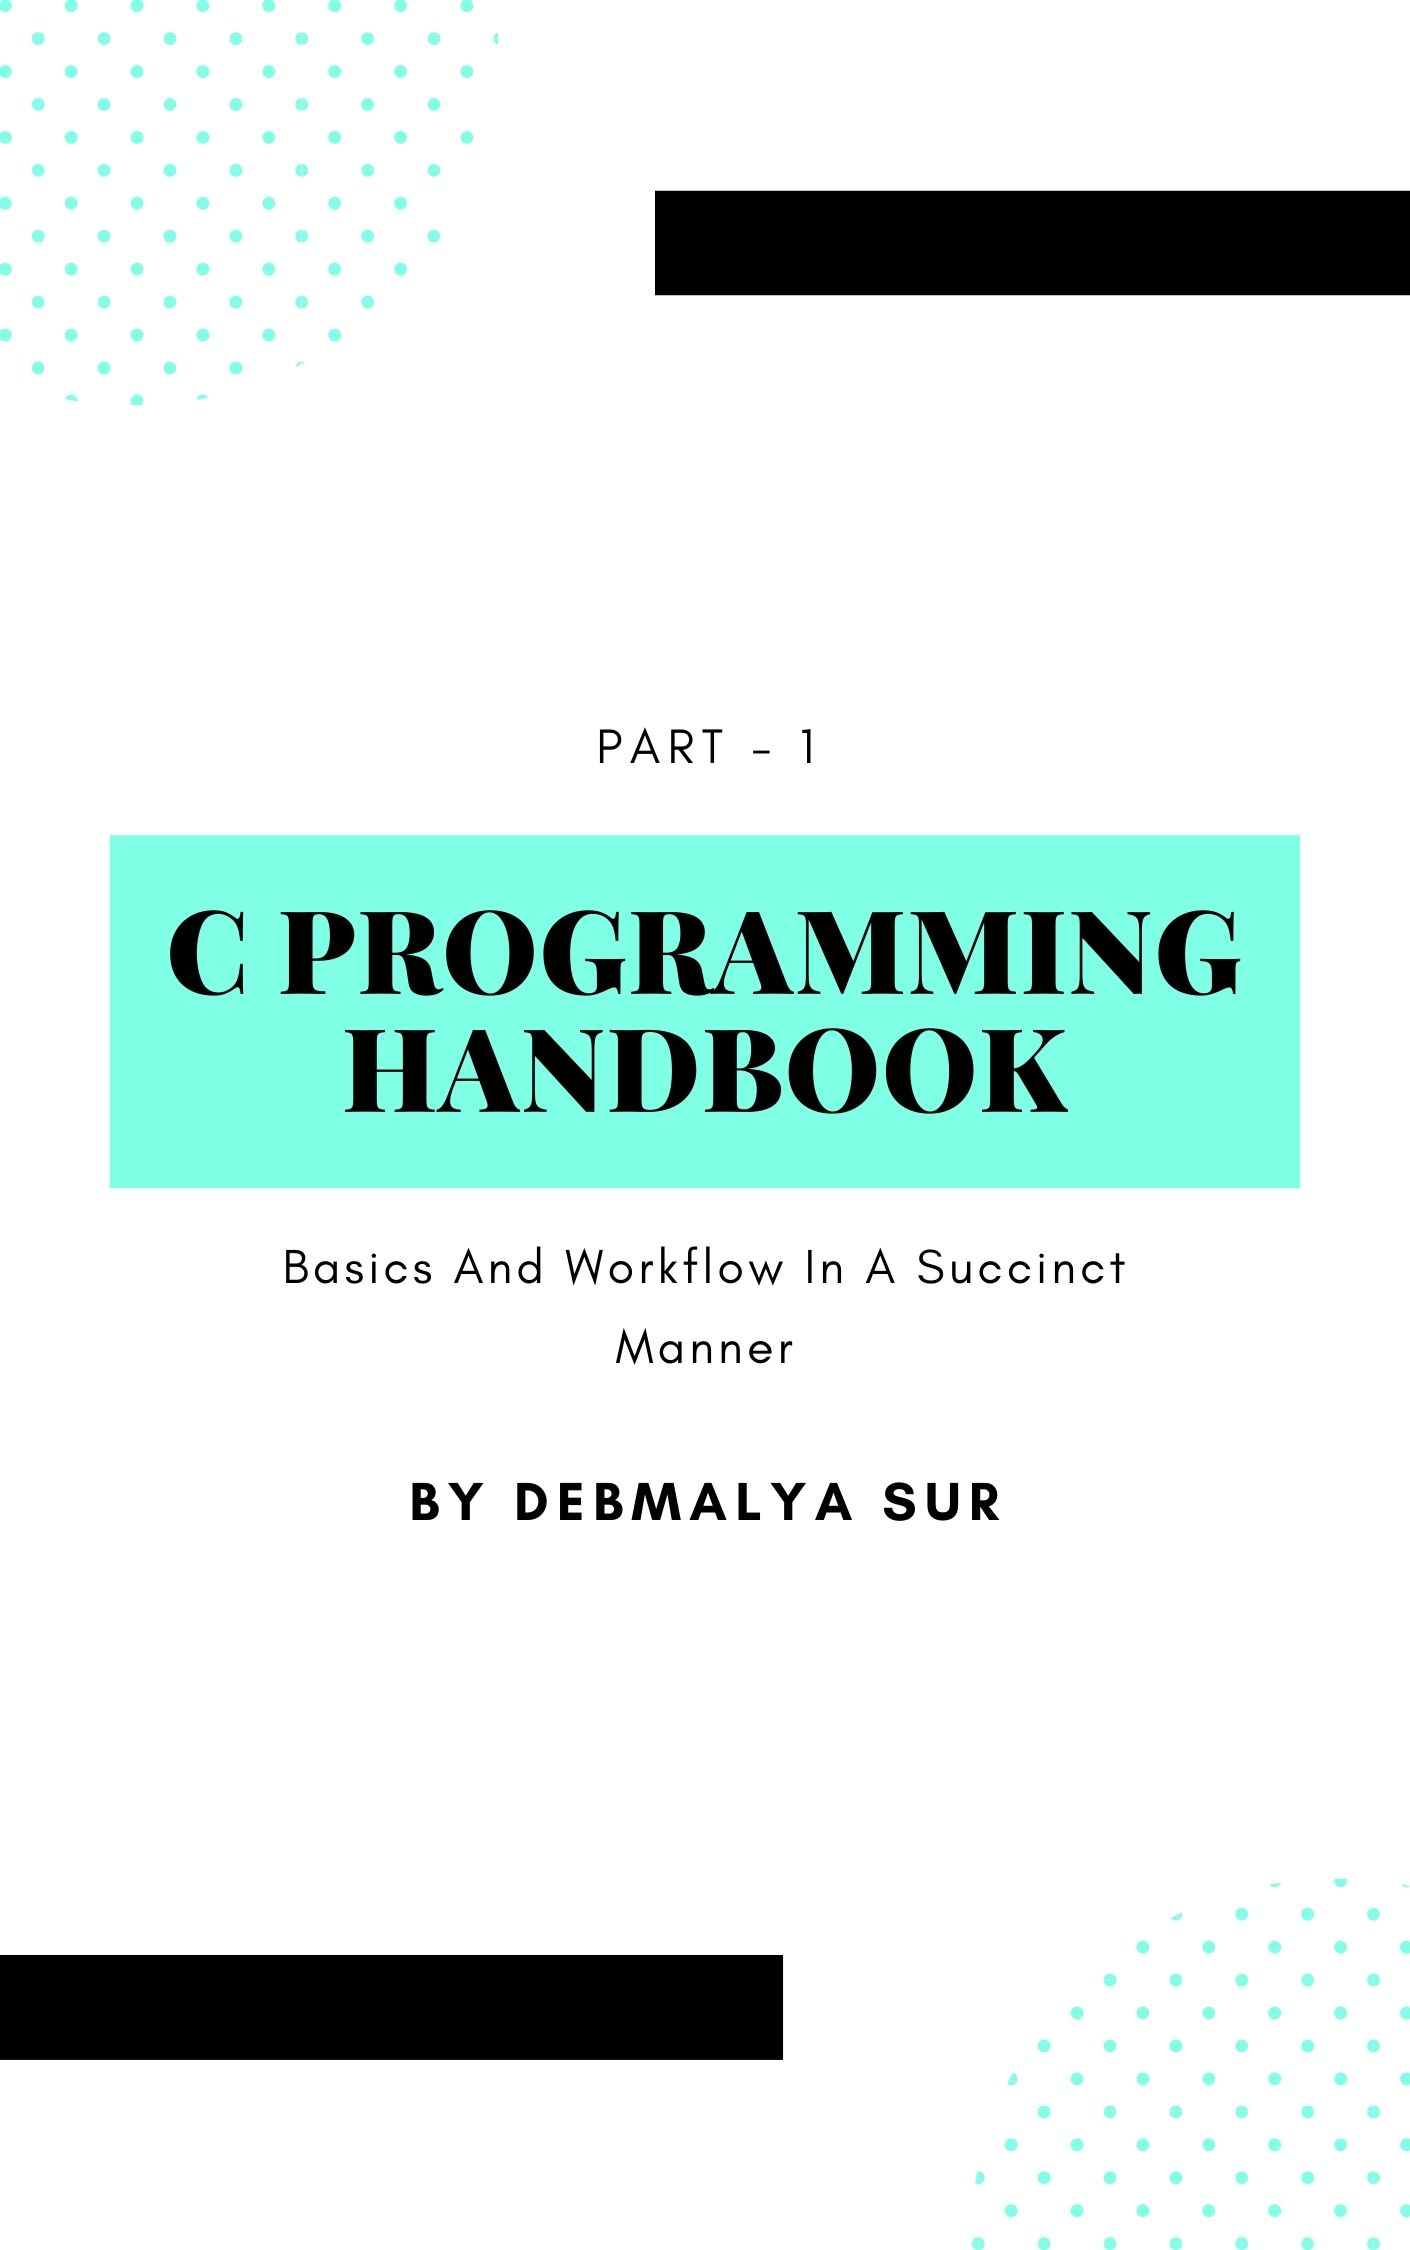
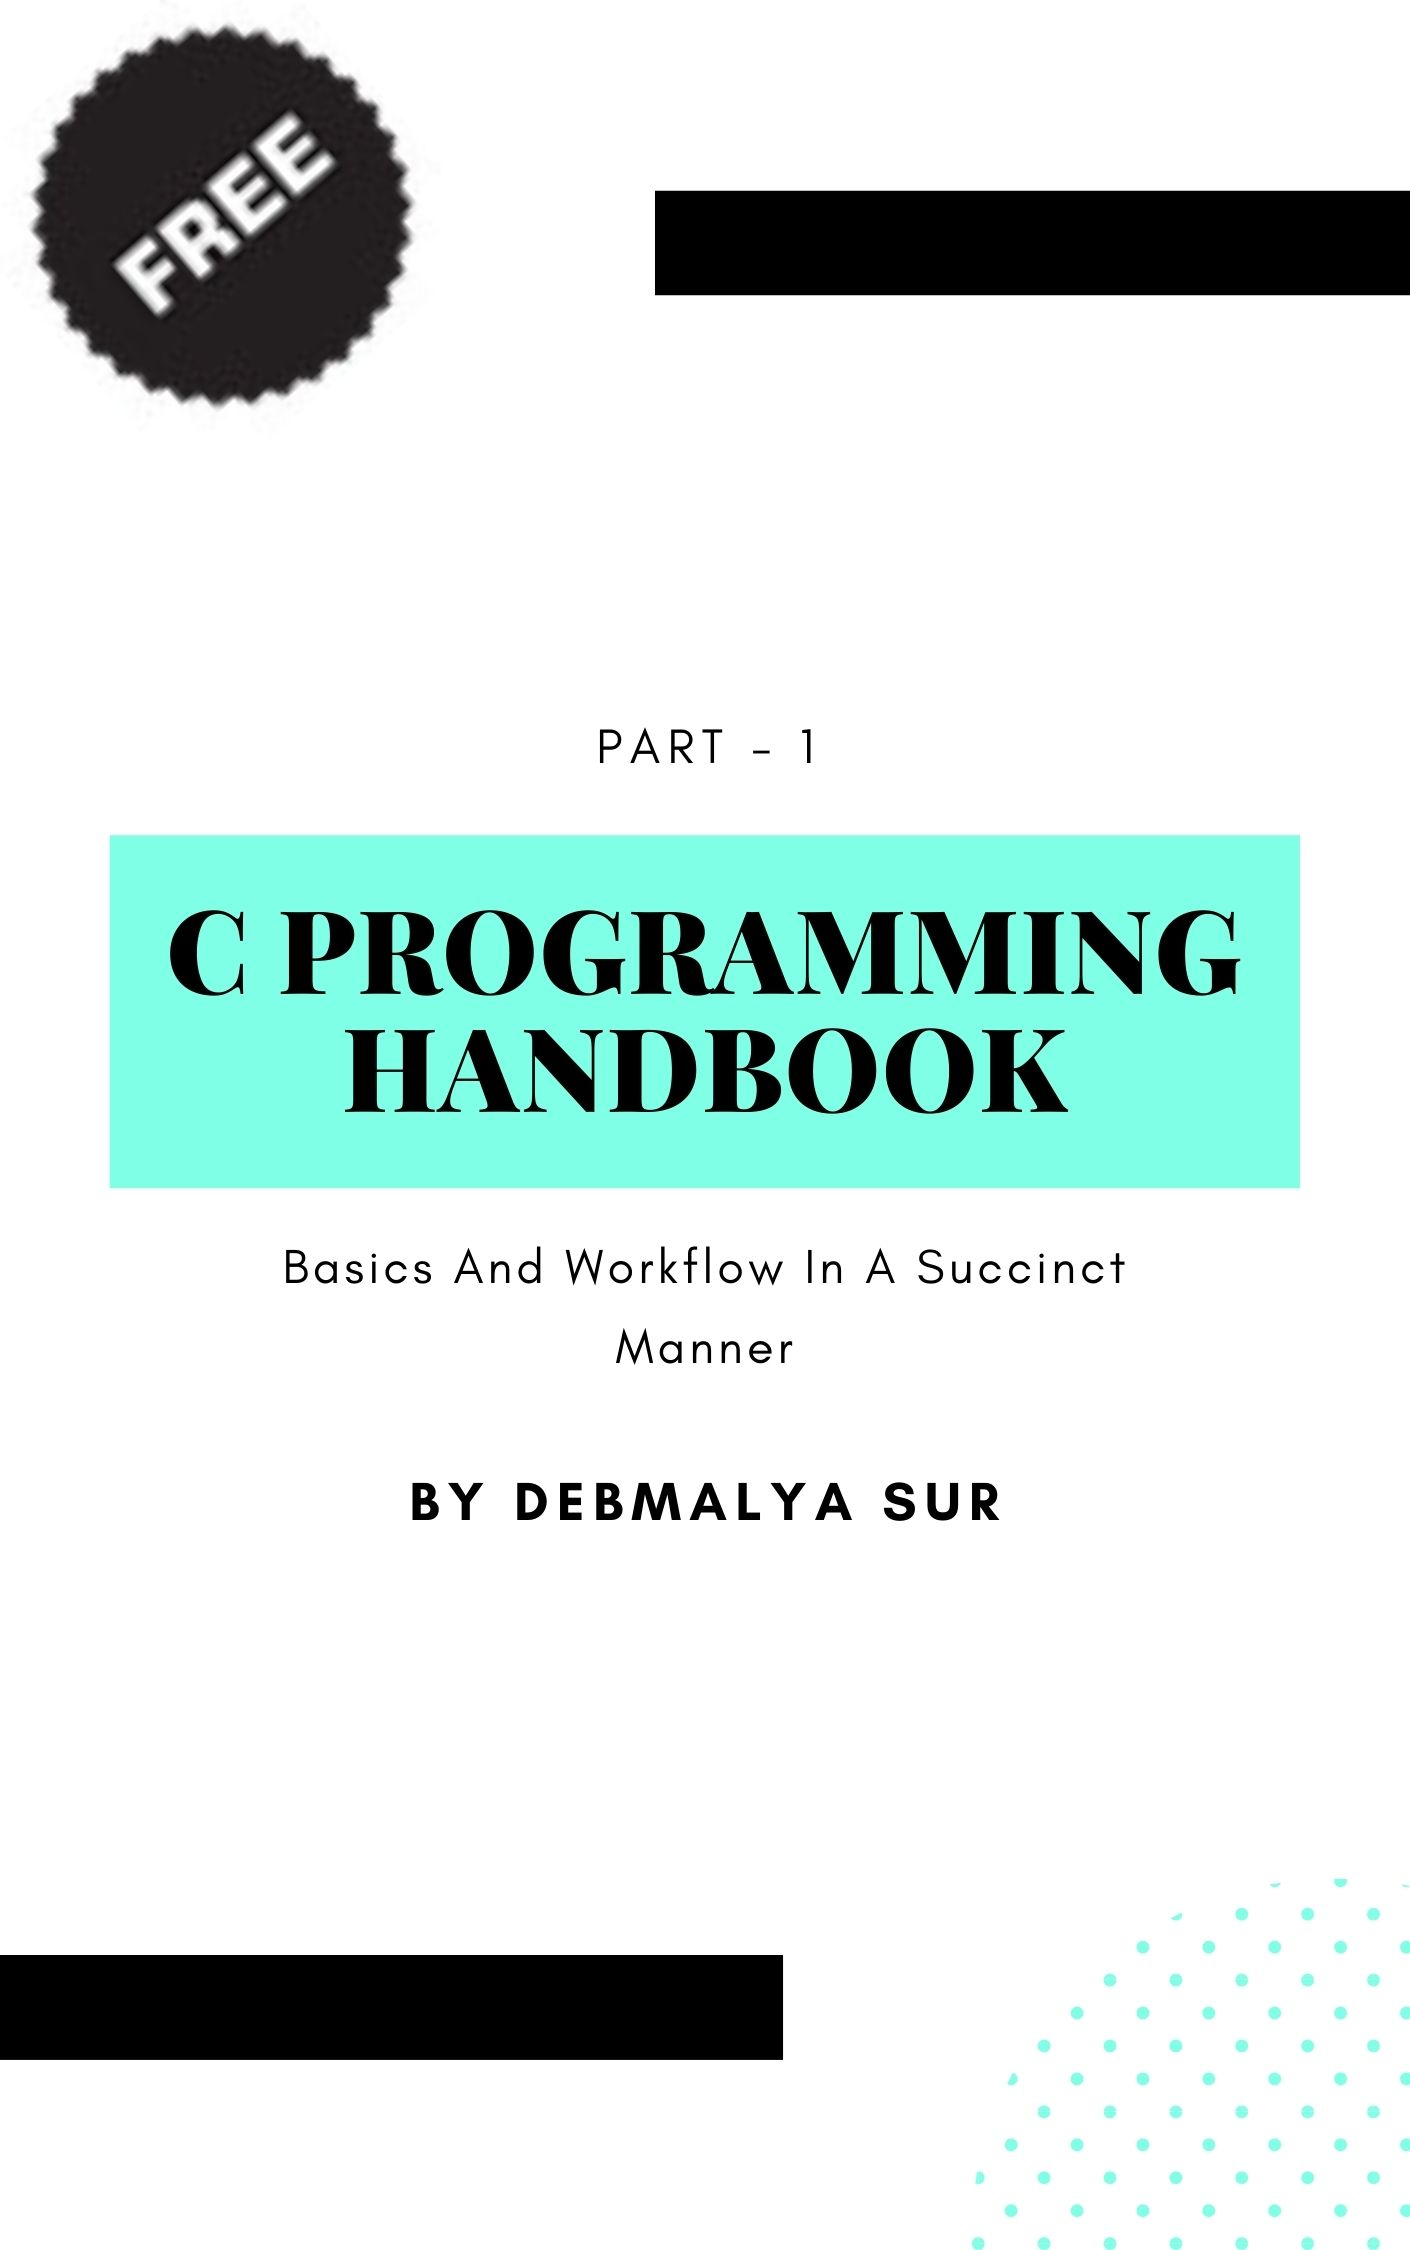
book page layout updated

Changed region(s): [[0.0, 0.0, 0.3121, 0.1867]]

diff --git a/pages/books/books.html b/pages/books/books.html
@@ -100,8 +100,6 @@
                                 <i class="fa fa-book" style="padding-right: 5px;"></i> READ IT
                             </button>
                         </a>
-                        <img loading="lazy" src="./images/free.ico" alt="" width="50" height="50"
-                            style="user-select: auto;">
                     </p>
                 </div>
                 <div class="w3-twothird w3-container w3-margin-bottom">
